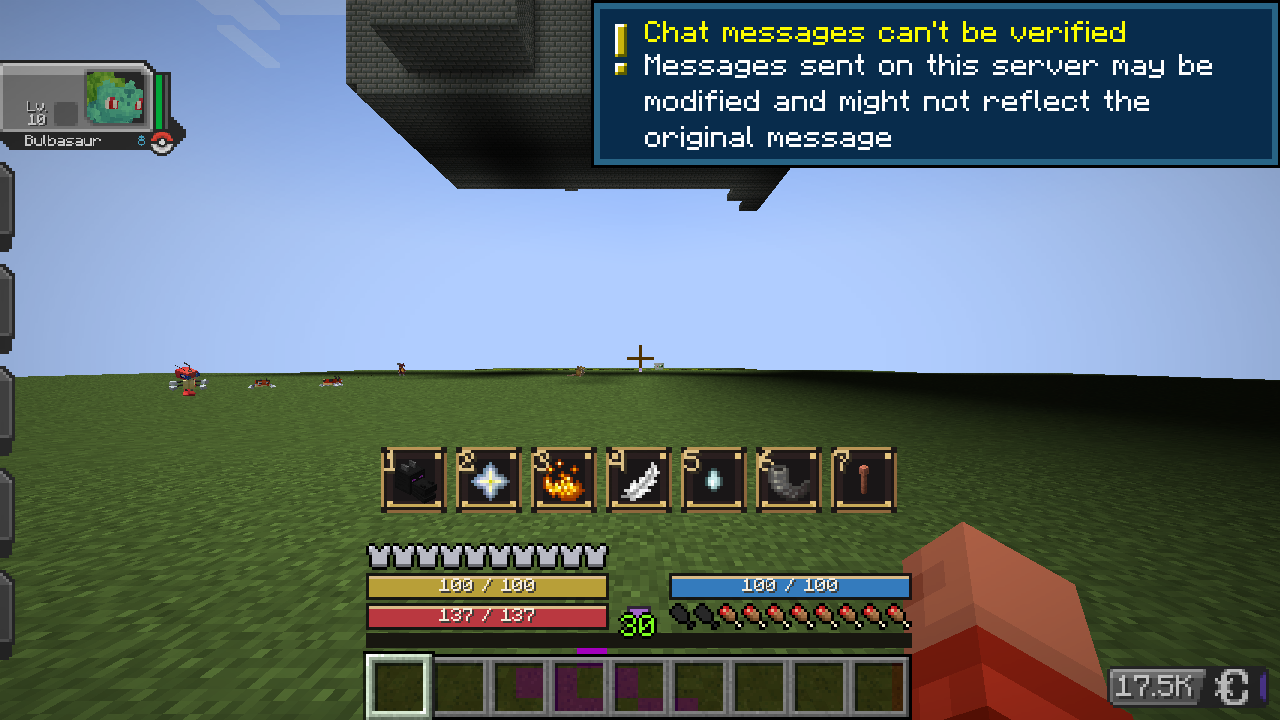
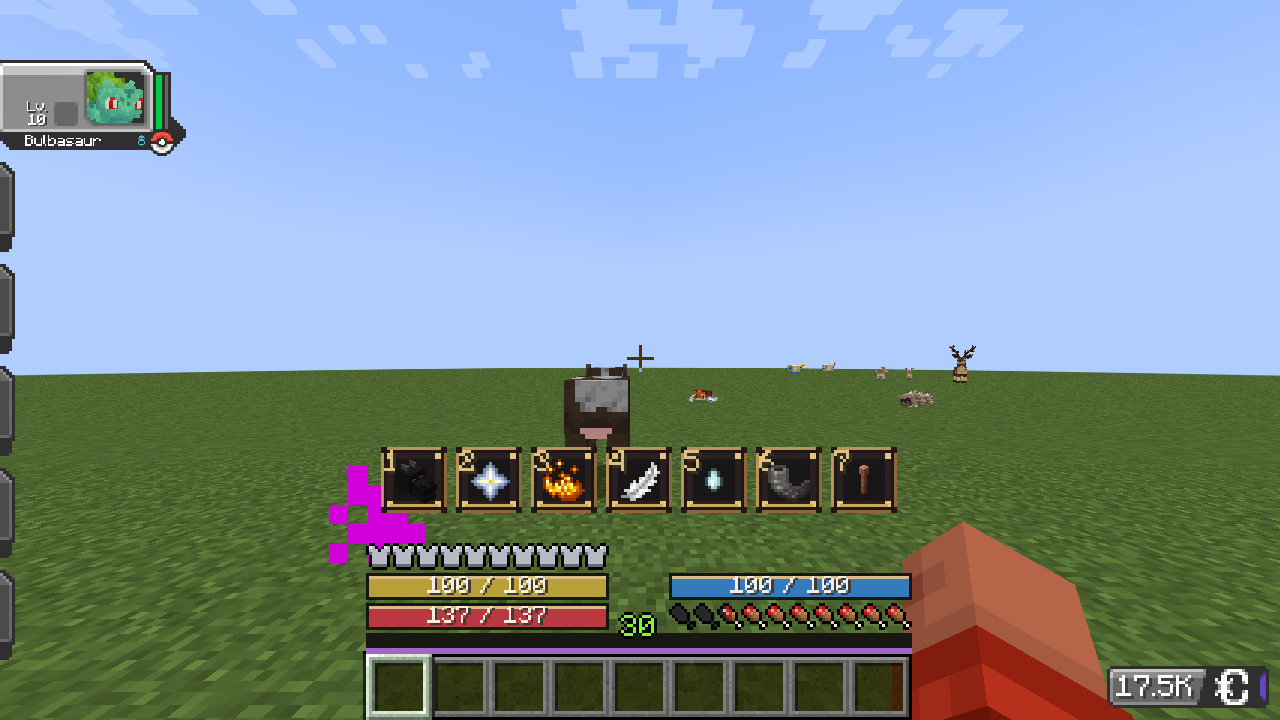
Finish vanilla-position HUD layering, visibility and runtime QA [skip ci]

diff --git a/FantasyHub/client/src/main/java/vn/svframe/fantasyhub/client/CompactHud.java b/FantasyHub/client/src/main/java/vn/svframe/fantasyhub/client/CompactHud.java
@@ -7,16 +7,22 @@ import net.minecraft.text.Text;
 /** Resources share vanilla status-bar anchors, independent of GUI scale and maximum health. */
 public final class CompactHud {
     private CompactHud(){}
-    public static boolean active(){var client=MinecraftClient.getInstance();return FantasyHubClient.hudEnabled&&client.player!=null&&!client.options.hudHidden&&FantasyHubClient.state().has("schema");}
+    public static boolean active(){var client=MinecraftClient.getInstance();return FantasyHubClient.hudEnabled&&client.player!=null&&client.interactionManager!=null&&client.interactionManager.hasStatusBars()&&!client.options.hudHidden&&FantasyHubClient.state().has("schema");}
     public static boolean visible(String resource){return active()&&FantasyHubClient.options.visible(resource);}
+    public static int staminaOffset(){
+        if(visible("health"))return 10;
+        var player=MinecraftClient.getInstance().player;if(player==null)return 10;
+        int rows=Math.max(1,(int)Math.ceil((Math.max(player.getMaxHealth(),player.getHealth())+Math.ceil(player.getAbsorptionAmount()))/20));
+        return 10+(rows-1)*Math.max(10-(rows-2),3);
+    }
     public static void render(DrawContext context){
         var client=MinecraftClient.getInstance();if(client.interactionManager==null||!client.interactionManager.hasStatusBars())return;
         int center=context.getScaledWindowWidth()/2,y=context.getScaledWindowHeight()-39;
         if(visible("health"))bar(context,center-91,y,"health",client.player.getHealth(),client.player.getMaxHealth(),0xffba3840);
-        if(visible("stamina"))bar(context,center-91,y-10,"stamina",FantasyHubClient.number("stamina"),FantasyHubClient.number("staminaMax"),0xffb89f38);
+        if(visible("stamina"))bar(context,center-91,y-staminaOffset(),"stamina",FantasyHubClient.number("stamina"),FantasyHubClient.number("staminaMax"),0xffb89f38);
         if(visible("mana"))bar(context,center+10,y-10,"mana",FantasyHubClient.number("mana"),FantasyHubClient.number("manaMax"),0xff347bbd);
-        // A small charge jewel preserves the distinct magic resource without another panel or row.
-        if(visible("magic")&&FantasyHubClient.number("magicMax")>0){int x=center-3;context.fill(x-1,y+1,x+7,y+9,0xff302437);int height=(int)Math.round(6*Math.clamp(FantasyHubClient.number("magic")/FantasyHubClient.number("magicMax"),0,1));context.fill(x,y+8-height,x+6,y+8,0xffa166c9);}
+        // The distinct magic charge fits into the two-pixel gap between XP and hotbar, clear of level text.
+        if(visible("magic")&&FantasyHubClient.number("magicMax")>0){int x=center-91,chargeY=context.getScaledWindowHeight()-24;context.fill(x,chargeY,x+182,chargeY+2,0xff302437);int fill=(int)Math.round(182*Math.clamp(FantasyHubClient.number("magic")/FantasyHubClient.number("magicMax"),0,1));context.fill(x,chargeY,x+fill,chargeY+2,0xffa166c9);}
     }
     private static void bar(DrawContext c,int x,int y,String resource,double value,double max,int color){
         int width=81,height=9;
@@ -25,7 +31,7 @@ public final class CompactHud {
         c.fill(x+1,y+1,x+1+fill,y+height-1,color);c.fill(x+1,y+1,x+1+fill,y+2,0xffd9bb88);
         var renderer=MinecraftClient.getInstance().textRenderer;
         String amount=number(value)+" / "+number(max);String label=FantasyHubClient.options.compact?amount:Text.translatable("fantasyhub.resource."+resource).getString()+" "+amount;
-        float scale=Math.clamp(FantasyHubClient.hudScale*.8f,.6f,.8f);label=renderer.trimToWidth(label,(int)((width-6)/scale));
+        float scale=Math.clamp(FantasyHubClient.hudScale,.5f,1f);label=renderer.trimToWidth(label,(int)((width-6)/scale));
         c.getMatrices().push();c.getMatrices().translate(x+width/2f,y+(height-renderer.fontHeight*scale)/2f,0);c.getMatrices().scale(scale,scale,1);c.drawText(renderer,label,-renderer.getWidth(label)/2,0,0xfff9f0e0,true);c.getMatrices().pop();
     }
     private static String number(double value){return String.format(java.util.Locale.ROOT,"%.0f",Math.max(0,value));}

diff --git a/FantasyHub/client/src/main/java/vn/svframe/fantasyhub/client/HubScreen.java b/FantasyHub/client/src/main/java/vn/svframe/fantasyhub/client/HubScreen.java
@@ -66,7 +66,7 @@ public final class HubScreen extends Screen {
         if(view==View.SETTINGS){
             addDrawableChild(FantasyButton.builder(Text.translatable("fantasyhub.hud.toggle"),b->{FantasyHubClient.hudEnabled=!FantasyHubClient.hudEnabled;FantasyHubClient.saveOptions();}).dimensions(left+12,top+66,160,20).build());
             addDrawableChild(FantasyButton.builder(Text.translatable("fantasyhub.hud.scale.down"),b->{FantasyHubClient.hudScale=Math.max(.5f,FantasyHubClient.hudScale-.1f);FantasyHubClient.saveOptions();}).dimensions(left+12,top+94,78,20).build());
-            addDrawableChild(FantasyButton.builder(Text.translatable("fantasyhub.hud.scale.up"),b->{FantasyHubClient.hudScale=Math.min(2f,FantasyHubClient.hudScale+.1f);FantasyHubClient.saveOptions();}).dimensions(left+96,top+94,78,20).build());
+            addDrawableChild(FantasyButton.builder(Text.translatable("fantasyhub.hud.scale.up"),b->{FantasyHubClient.hudScale=Math.min(1f,FantasyHubClient.hudScale+.1f);FantasyHubClient.saveOptions();}).dimensions(left+96,top+94,78,20).build());
             addDrawableChild(FantasyButton.builder(Text.translatable("fantasyhub.hud.compact"),b->{FantasyHubClient.options.compact=!FantasyHubClient.options.compact;FantasyHubClient.saveOptions();}).dimensions(left+12,top+150,160,20).build());
             String[] components={"health","mana","stamina","magic"};for(int i=0;i<components.length;i++){
                 String component=components[i];addDrawableChild(FantasyButton.builder(Text.translatable("fantasyhub.hud.component",Text.translatable("fantasyhub.resource."+component)),b->FantasyHubClient.options.toggle(component)).dimensions(left+panelWidth/2+8,top+66+i*28,panelWidth/2-20,20).build());

diff --git a/FantasyHub/client/src/main/java/vn/svframe/fantasyhub/client/mixin/HealthHudMixin.java b/FantasyHub/client/src/main/java/vn/svframe/fantasyhub/client/mixin/HealthHudMixin.java
@@ -20,11 +20,18 @@ public abstract class HealthHudMixin {
     private void fantasyhub$customHealthPresentation(CallbackInfo ci){
         if(CompactHud.visible("health"))ci.cancel();
     }
+    @Inject(method="renderStatusBars",at=@At("TAIL"))
+    private void fantasyhub$resources(DrawContext context,CallbackInfo ci){
+        // Render with vanilla status bars so chat and menus keep the same HUD
+        // visibility and foreground ordering as hearts and food.
+        if(CompactHud.active())CompactHud.render(context);
+    }
     @ModifyArgs(method="renderStatusBars",at=@At(value="INVOKE",target="Lnet/minecraft/client/gui/hud/InGameHud;renderArmor(Lnet/minecraft/client/gui/DrawContext;Lnet/minecraft/entity/player/PlayerEntity;IIII)V"))
     private void fantasyhub$armorLayout(Args args){
         // Hidden vanilla hearts must not reserve seven empty rows for a
         // high-health character and push armor into the ability bar.
-        if(CompactHud.visible("health")){args.set(3,1);if(CompactHud.visible("stamina"))args.set(2,(int)args.get(2)-10);}
+        if(CompactHud.visible("health"))args.set(3,1);
+        if(CompactHud.visible("stamina"))args.set(2,(int)args.get(2)-10);
     }
     @Inject(method="renderExperienceBar",at=@At("HEAD"),cancellable=true)
     private void fantasyhub$experience(DrawContext context,int x,CallbackInfo ci){if(CompactHud.active()){CompactHud.experience(context,x);ci.cancel();}}

diff --git a/FantasyHub/client/src/main/java/vn/svframe/fantasyhub/client/PresentationOptions.java b/FantasyHub/client/src/main/java/vn/svframe/fantasyhub/client/PresentationOptions.java
@@ -19,7 +19,7 @@ final class PresentationOptions {
             if(!Files.exists(path()))return new PresentationOptions();
             var options=new com.google.gson.Gson().fromJson(Files.readString(path()),PresentationOptions.class);
             if(options==null)return new PresentationOptions();
-            options.scale=Float.isFinite(options.scale)?Math.max(.5f,Math.min(2,options.scale)):1;
+            options.scale=Float.isFinite(options.scale)?Math.max(.5f,Math.min(1,options.scale)):.8f;
             return options;
         }catch(IOException|RuntimeException failure){Logger.getLogger("FantasyHub-Client").log(Level.WARNING,"Could not load presentation options",failure);return new PresentationOptions();}
     }

diff --git a/FantasyHub/client/src/main/java/vn/svframe/fantasyhub/client/AbilityHud.java b/FantasyHub/client/src/main/java/vn/svframe/fantasyhub/client/AbilityHud.java
@@ -22,6 +22,7 @@ final class AbilityHud {
         var slots=state.getAsJsonArray("loadoutSlots");int count=slots==null?6:slots.size();if(count==0)return;
         var client=MinecraftClient.getInstance();int size=22,gap=3,width=count*(size+gap)-gap;
         int x=(context.getScaledWindowWidth()-width)/2,y=context.getScaledWindowHeight()-91;
+        if(CompactHud.visible("stamina"))y=Math.min(y,context.getScaledWindowHeight()-39-CompactHud.staminaOffset()-32);
         for(int index=0;index<count;index++){
             int slot=slots==null?index+1:slots.get(index).getAsInt();
             int left=x+index*(size+gap);FantasyPanel.frame(context,left,y,size,size);

diff --git a/FantasyHub/client/src/main/java/vn/svframe/fantasyhub/client/FantasyHubClient.java b/FantasyHub/client/src/main/java/vn/svframe/fantasyhub/client/FantasyHubClient.java
@@ -85,7 +85,6 @@ public final class FantasyHubClient implements ClientModInitializer {
         HudRenderCallback.EVENT.register((context,counter)->{
             var client=MinecraftClient.getInstance();
             if(!hudEnabled||client.player==null||client.options.hudHidden||client.currentScreen!=null||!state.has("schema"))return;
-            CompactHud.render(context);
             AbilityHud.render(context);
         });
     }

diff --git a/docs/COMPACT-HUD-QA.md b/docs/COMPACT-HUD-QA.md
@@ -1,6 +1,6 @@
 # Vanilla-position RPG HUD
 
-The resource panel has been replaced with 81-pixel bars anchored to the vanilla status area. Actual client health and maximum health render at the old heart position; authoritative stamina renders immediately above health, mana above food, and RPG level and experience replace the vanilla level and XP presentation. Armor moves above stamina, and oxygen moves above mana. Food, hotbar, ability slots, and gameplay attributes remain functional. Component visibility restores vanilla hearts when custom health is disabled. The distinct magic resource uses a small charge jewel between the two columns.
+The resource panel has been replaced with 81-pixel bars anchored to the vanilla status area. Actual client health and maximum health render at the old heart position; authoritative stamina renders immediately above health, mana above food, and RPG level and experience replace the vanilla level and XP presentation. Armor moves above stamina, and oxygen moves above mana. Food, hotbar, ability slots, and gameplay attributes remain functional. Component visibility restores vanilla hearts when custom health is disabled. The distinct magic resource uses a two-pixel charge bar between XP and hotbar, clear of the level text.
 
 Locally built with Java 21, Gradle 8.8, Minecraft 1.21.1, and Fabric Loader 0.18.4. Ran the built presentation mod on two real clients connected to a dedicated Fabric/Cobblemon 1.8.0 server. The second client installs the presentation mod without server gameplay modules.
 
@@ -8,3 +8,16 @@ Locally built with Java 21, Gradle 8.8, Minecraft 1.21.1, and Fabric Loader 0.18
 - `qa/compact-hud/hud-vi-scale2.png`: Vietnamese, GUI scale 2, same resource positions, with Cobblemon enabled.
 
 Both images were captured directly with X11/FFmpeg. These changes and captures verify this HUD adjustment; they do not certify the unfinished complete framework or source compatibility suite.
+
+The follow-up build renders resources in vanilla's status-bar layer, below chat and screens. When custom health is disabled, stamina and ability slots move above all restored vanilla heart rows. Text size controls adjust the resource text from 0.5 to 1.0 without changing the vanilla anchors.
+
+| Runtime check | Result | Evidence |
+|---|---|---|
+| English, GUI scale 3 | Pass | `qa/compact-hud/hud-en-scale3.png` |
+| Vietnamese, GUI scale 2, presentation-only client | Pass | `qa/compact-hud/hud-vi-scale2.png` |
+| Armor above stamina; oxygen above mana while submerged | Pass | `qa/compact-hud/hud-underwater.png` |
+| Chat preserves resource bars and normal layer ordering | Pass | `qa/compact-hud/hud-chat.png` |
+| Turning off custom health restores multiple heart rows without stamina overlap | Pass | `qa/compact-hud/hud-vanilla-health.png` |
+| Both clients reconnect to the continuously running server; actual client/server maximum health agree at 137.35 | Pass | `qa/compact-hud/runtime-observations.json` |
+
+Build used local Gradle, without GitHub Actions. Source and screenshots are committed; private player observations remain in the local QA evidence directory.
